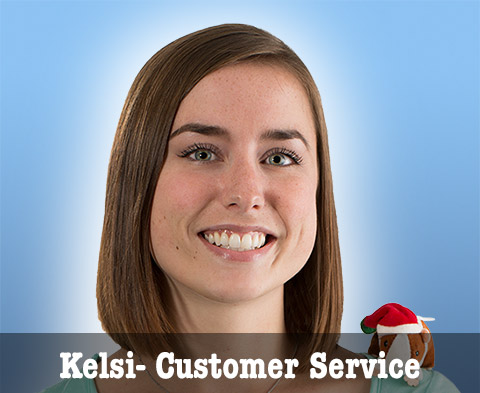
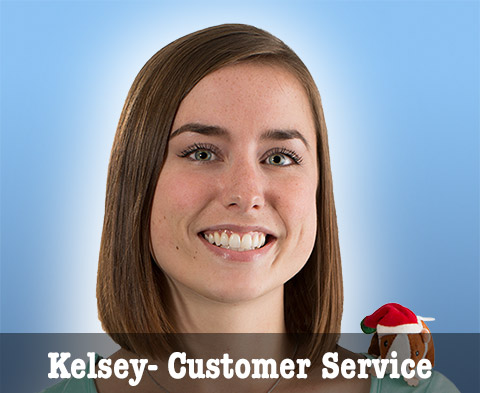
added html clock, changed spelling on Kelsey's slide

Changed region(s): [[0.0938, 0.8855, 0.9062, 0.9771]]

diff --git a/index.html b/index.html
@@ -30,6 +30,8 @@ header{
 .logo{
 	position:absolute;
 	width:325px;
+	
+	
 	z-index:2000;
 	left:10px;
 }
@@ -48,9 +50,17 @@ header{
 	height:50%;
 }
 .C{
-	background: #9BFFBF;
 	height:50%;
 }
+.weather{
+	background: #9BFFBF;
+}
+.clock{
+	background:#f19a33;
+	height:100%;
+	position:relative;
+}
+
 footer{
 	height:11.481481481481481%;
 	width:100%;
@@ -120,12 +130,22 @@ footer{
 					</div>
 			</div>
 		</div>
-		<div class="C table">
+		
+		<!--<div class="C table weather">
 			<div class="cell">
 			<iframe id="forecast_embed" type="text/html" frameborder="0" height="200" width="70%" src="http://forecast.io/embed/#lat=43.752187&lon=-88.420715&name=Fond du Lac, Wi"> </iframe>
-
+			</div>
+		</div>-->
+		
+		<div class="C table">
+			<div class="cell">
+					<div class="clock">
+						<iframe scrolling="no" frameborder="0" style="overflow:hidden;border:0;margin:0;padding:0;padding-top: 45px;width:250px;height:250px;" src="http://www.clocklink.com/html5embed.php?clock=001&timezone=CST&color=orange&size=250"></iframe>
+					</div>
+			
 			</div>
 		</div>
+		
 	</div>
 </div>
 <footer>
